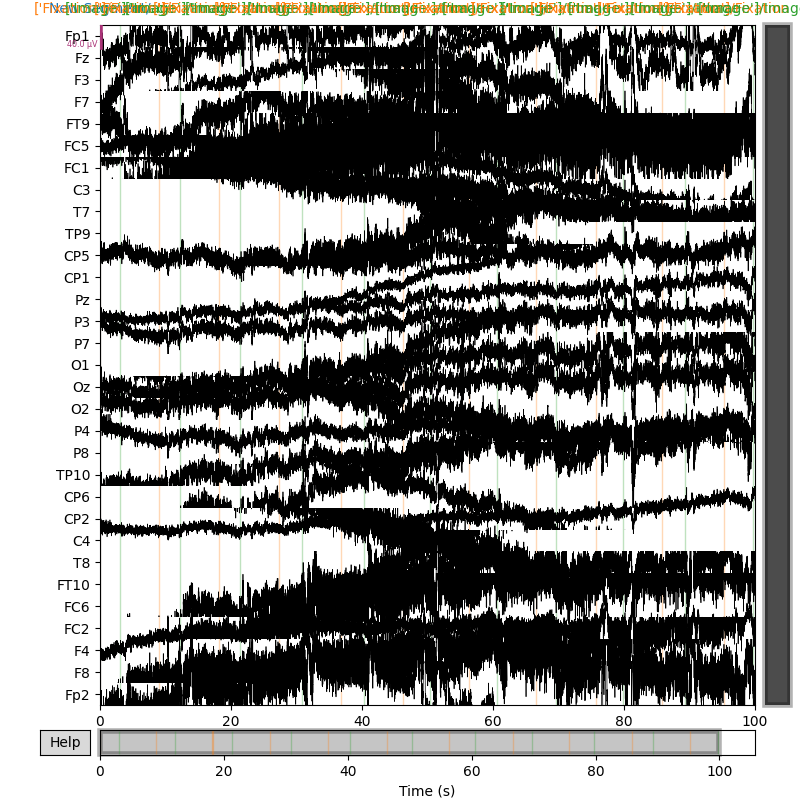
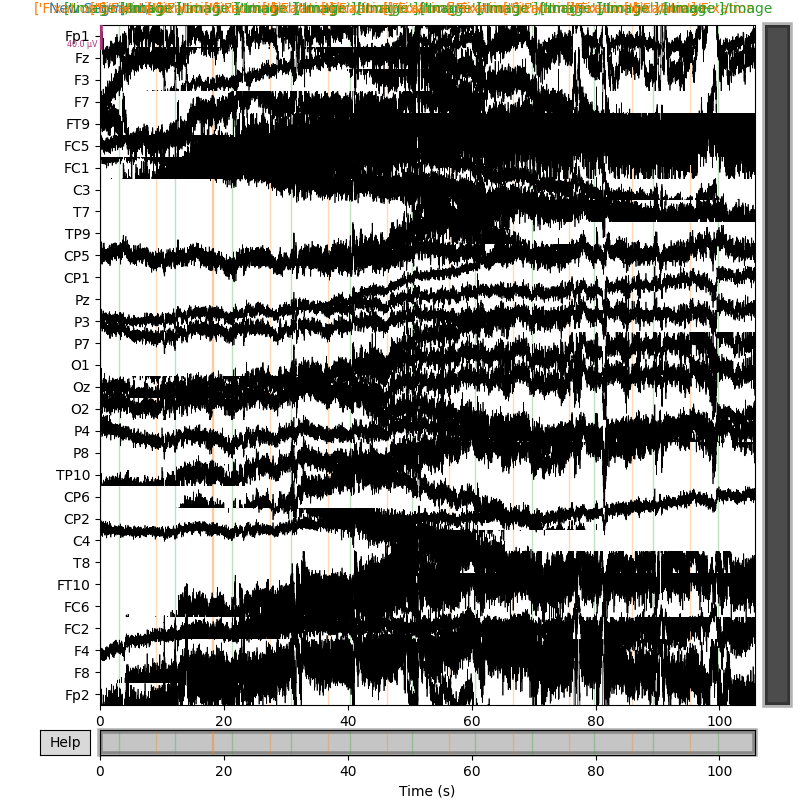
d

Changed region(s): [[0.125, 0.1875, 0.9688, 0.9688], [0.0625, 0.0, 1.0, 0.25]]

diff --git a/calssification/classification.py b/calssification/classification.py
@@ -6,5 +6,5 @@ import mne
 raw_data = mne.io.read_raw_brainvision("./test_2.vhdr")
 print(raw_data.info)
 
-plotted = raw_data.plot(duration=100, n_channels=31)
+plotted = raw_data.plot(duration=200, n_channels=31)
 plotted.savefig('fig.png')
